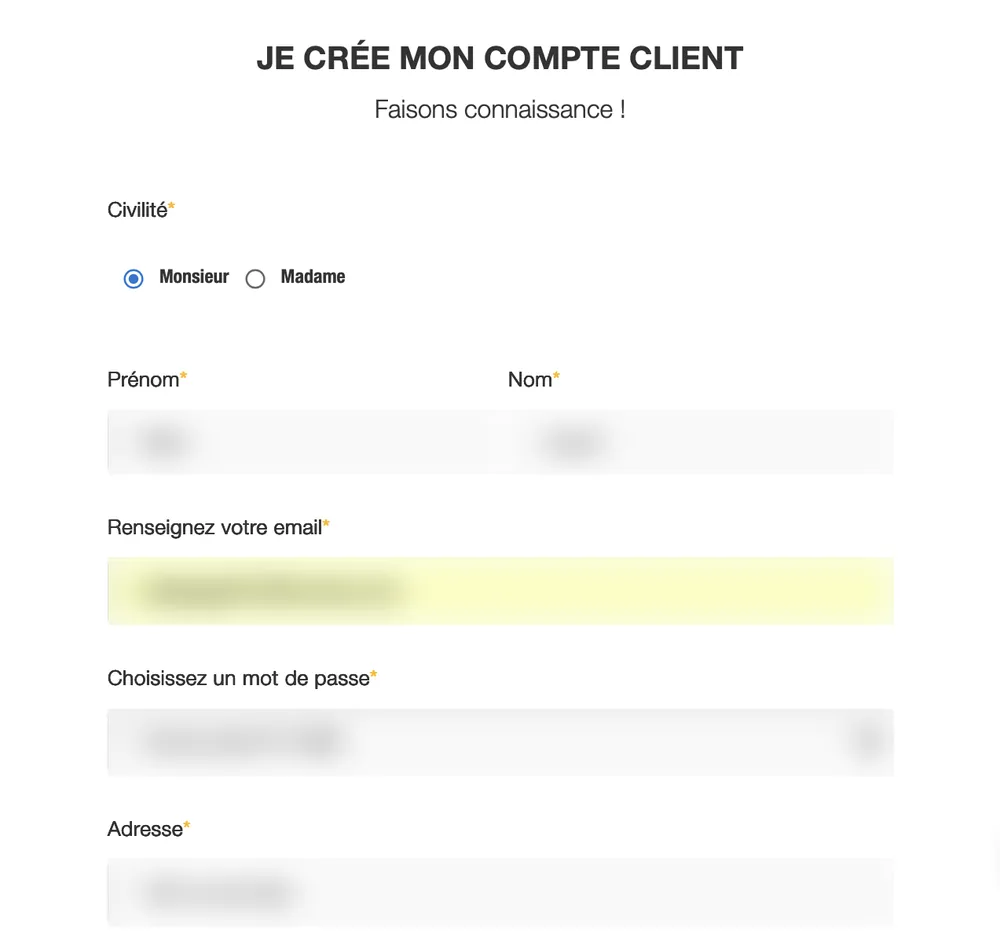
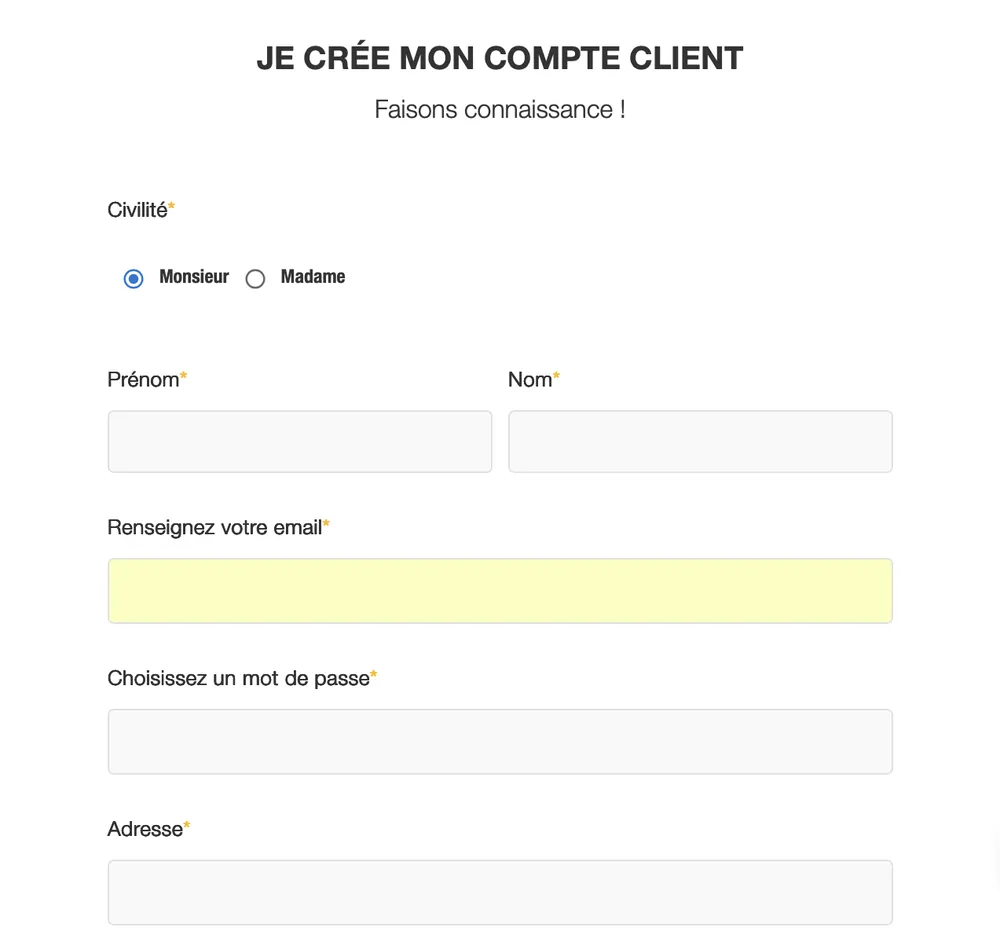
Code promo : MYFOREVER seul (retrait de BLACKFRIDAY) + captures du pas-à-pas anonymisées par aplat
Claude-Session: https://claude.ai/code/session_015bB6fhjwEdmpy8U9PgBTdk

diff --git a/src/data/offres.ts b/src/data/offres.ts
@@ -30,19 +30,16 @@ export interface Offre {
   theme: 'standard' | 'blackfriday';
 }
 
-export const OFFRE_EN_COURS: Offre = {
-  nom: 'Black Friday',
-  code: 'BLACKFRIDAY',
-  remise: '15 %',
-  minimum: '50 €',
-  public: 'nouveaux clients de la boutique Forever',
-  debut: '2026-11-13T00:00:00+01:00',
-  fin: '2026-11-30T23:59:59+01:00',
-  finTexte: 'dimanche 30 novembre 2026',
-  conditions:
-    "Offre réservée aux nouveaux clients de la boutique Forever, valable jusqu'au dimanche 30 novembre 2026 inclus, dès 50 € d'achat. Non cumulable avec une autre offre.",
-  theme: 'blackfriday',
-};
+/**
+ * Offre datée en cours, ou null s'il n'y en a pas.
+ * Décision de Rafael (21/11/2026) : seul le code de bienvenue MYFOREVER est affiché sur le site.
+ * Le code BLACKFRIDAY (13 → 30/11/2026) a été retiré. Modèle pour une future offre datée :
+ *   { nom: 'Black Friday', code: 'BLACKFRIDAY', remise: '15 %', minimum: '50 €',
+ *     public: 'nouveaux clients de la boutique Forever', debut: '2026-11-13T00:00:00+01:00',
+ *     fin: '2026-11-30T23:59:59+01:00', finTexte: 'dimanche 30 novembre 2026',
+ *     conditions: '…', theme: 'blackfriday' }
+ */
+export const OFFRE_EN_COURS: Offre | null = null;
 
 /**
  * Offre de bienvenue permanente (confirmée par Rafael le 20/11/2026) :

diff --git a/A-NE-PAS-OUBLIER.md b/A-NE-PAS-OUBLIER.md
@@ -1,5 +1,5 @@
 # Esprit Aloé — À ne pas oublier
-*Mise à jour : 21 novembre 2026 (pas-à-pas illustré de /commander/)*
+*Mise à jour : 21 novembre 2026 (MYFOREVER seul, captures anonymisées)*
 
 - **/a-propos/ (20/11, demande de Rafael)** : la photo du profil devient le même portrait que `/contact/` (`rafael/rafael-avenard-portrait.webp`, 256 × 256, affiché en 288 × 288 : légèrement agrandi). À remplacer par une version plus grande avec la photo prévue après le coiffeur. L'encadré auteur des articles utilise encore l'ancienne `rafael-avenard.webp`.
 
@@ -8,7 +8,8 @@
 - **Captures fournies par Rafael** (21/11, parcours réel sur la boutique Forever avec l'Aloe Mango) : 7 étapes, recadrées, converties en WebP (q80, 1 000 px max) dans `public/images/commander/`. **Floutés** : prénom, nom, e-mail, mot de passe, adresse (étape 4), code postal, ville, téléphone (étape 5). Gardé visible : le numéro de conseiller 330001628607 (étape 5). Étape 1 : ligne « Livraison offerte dès 150 € » (ancien barème) masquée sur la capture. Étape 6 : capture coupée au-dessus des codes proposés par Forever.
 - **Le vrai parcours diffère de l'ancien pas-à-pas** : le compte se crée **après** le panier, le code promo se saisit **à l'étape livraison**. `/commander/` passe de 5 étapes texte à 7 étapes illustrées (texte à gauche, capture à droite) : fiche « Commander sur Forever » → ajouter au panier → étape suivante → créer le compte → vérifier le conseiller 330001628607 et valider → livraison + code promo → paiement. HowTo avec une image par étape.
 - **Paiement vérifié** (capture) : carte uniquement, CB, Visa, Visa Electron, Mastercard, Maestro, e-Carte Bleue, via Systempay (Banque Populaire). Nouvelle question FAQ (10 questions).
-- **À confirmer par Rafael** : la boutique propose sous le champ code promo les codes **BLACKFRIDAY** et **BIENVENUE15**, pas MYFOREVER. Le site annonce MYFOREVER partout (`src/data/offres.ts`) : vérifier lequel est le bon code de bienvenue.
+- **Code promo (décision de Rafael, 21/11)** : on garde **uniquement MYFOREVER** sur le site. Le code BLACKFRIDAY est retiré (popup, bandeau, page code promo) : `OFFRE_EN_COURS = null` dans `src/data/offres.ts` (modèle d'offre datée gardé en commentaire) ; Layout, BandeauOffre, PopupRemise et `/code-promo-forever/` gèrent l'absence d'offre datée. BIENVENUE15 (proposé par la boutique Forever) n'est cité nulle part.
+- **Captures anonymisées** (demande de Rafael, 21/11) : sur les étapes 4 et 5, les champs personnels (dont le mot de passe) sont maintenant vidés (aplat de la couleur du champ) au lieu d'être floutés ; les captures originales ont été supprimées de l'espace de travail.
 
 ## Lot AO du 21 novembre 2026 — conditions de livraison Forever + parrainage accueil et Suisse
 
